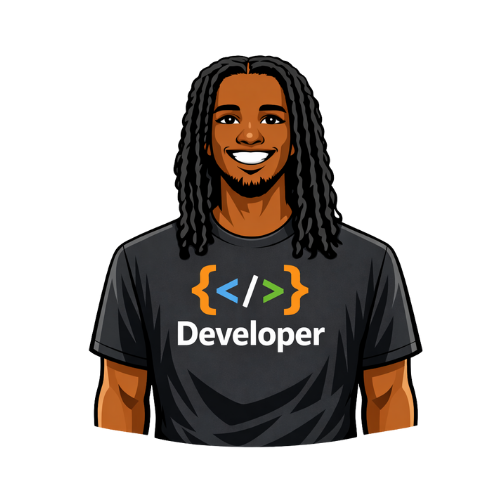
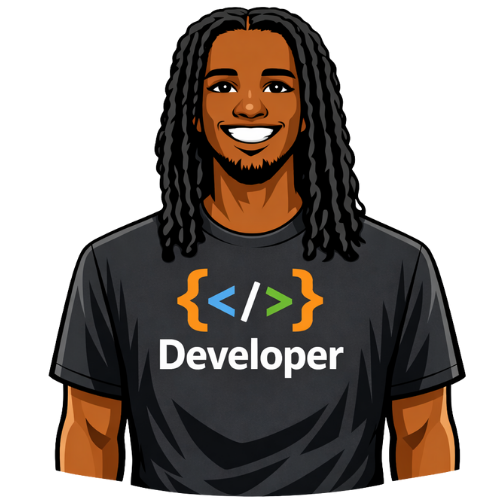
Added spacing for hero image, and adjusted spacing for large screens. Replaced hero image with larger image

diff --git a/src/components/Hero.jsx b/src/components/Hero.jsx
@@ -35,7 +35,7 @@ const Hero = ({ darkMode }) => {
         data-aos-delay="250"
         className="body-font z-10"
       >
-        <div className="container mx-auto flex px-4 sm:px-8 lg:px-14 py-12 lg:py-32 flex-col lg:flex-row items-center justify-between lg:mt-0 mt-14">
+        <div className="container mx-auto flex px-4 sm:px-8 lg:px-14 py-12 lg:py-14 flex-col lg:flex-row items-center justify-between lg:mt-14 mt-14">
           <div className="lg:w-1/2 w-full flex flex-col items-center lg:items-start text-center lg:text-left mb-12 lg:mb-0">
             <div className="flex justify-center lg:justify-start gap-4 sm:gap-6 mb-6 sm:mb-7 w-full">
               {socialIcons.map((social, index) => (
@@ -114,7 +114,7 @@ const Hero = ({ darkMode }) => {
             data-aos-delay="400"
           >
             <div className="relative w-4/5 sm:w-3/4 lg:w-full">
-              <div className="relative overflow-hidden">
+              <div className="relative overflow-hidden pt-1">
                 <img
                   src={Avatar}
                   alt="Hero Image"
